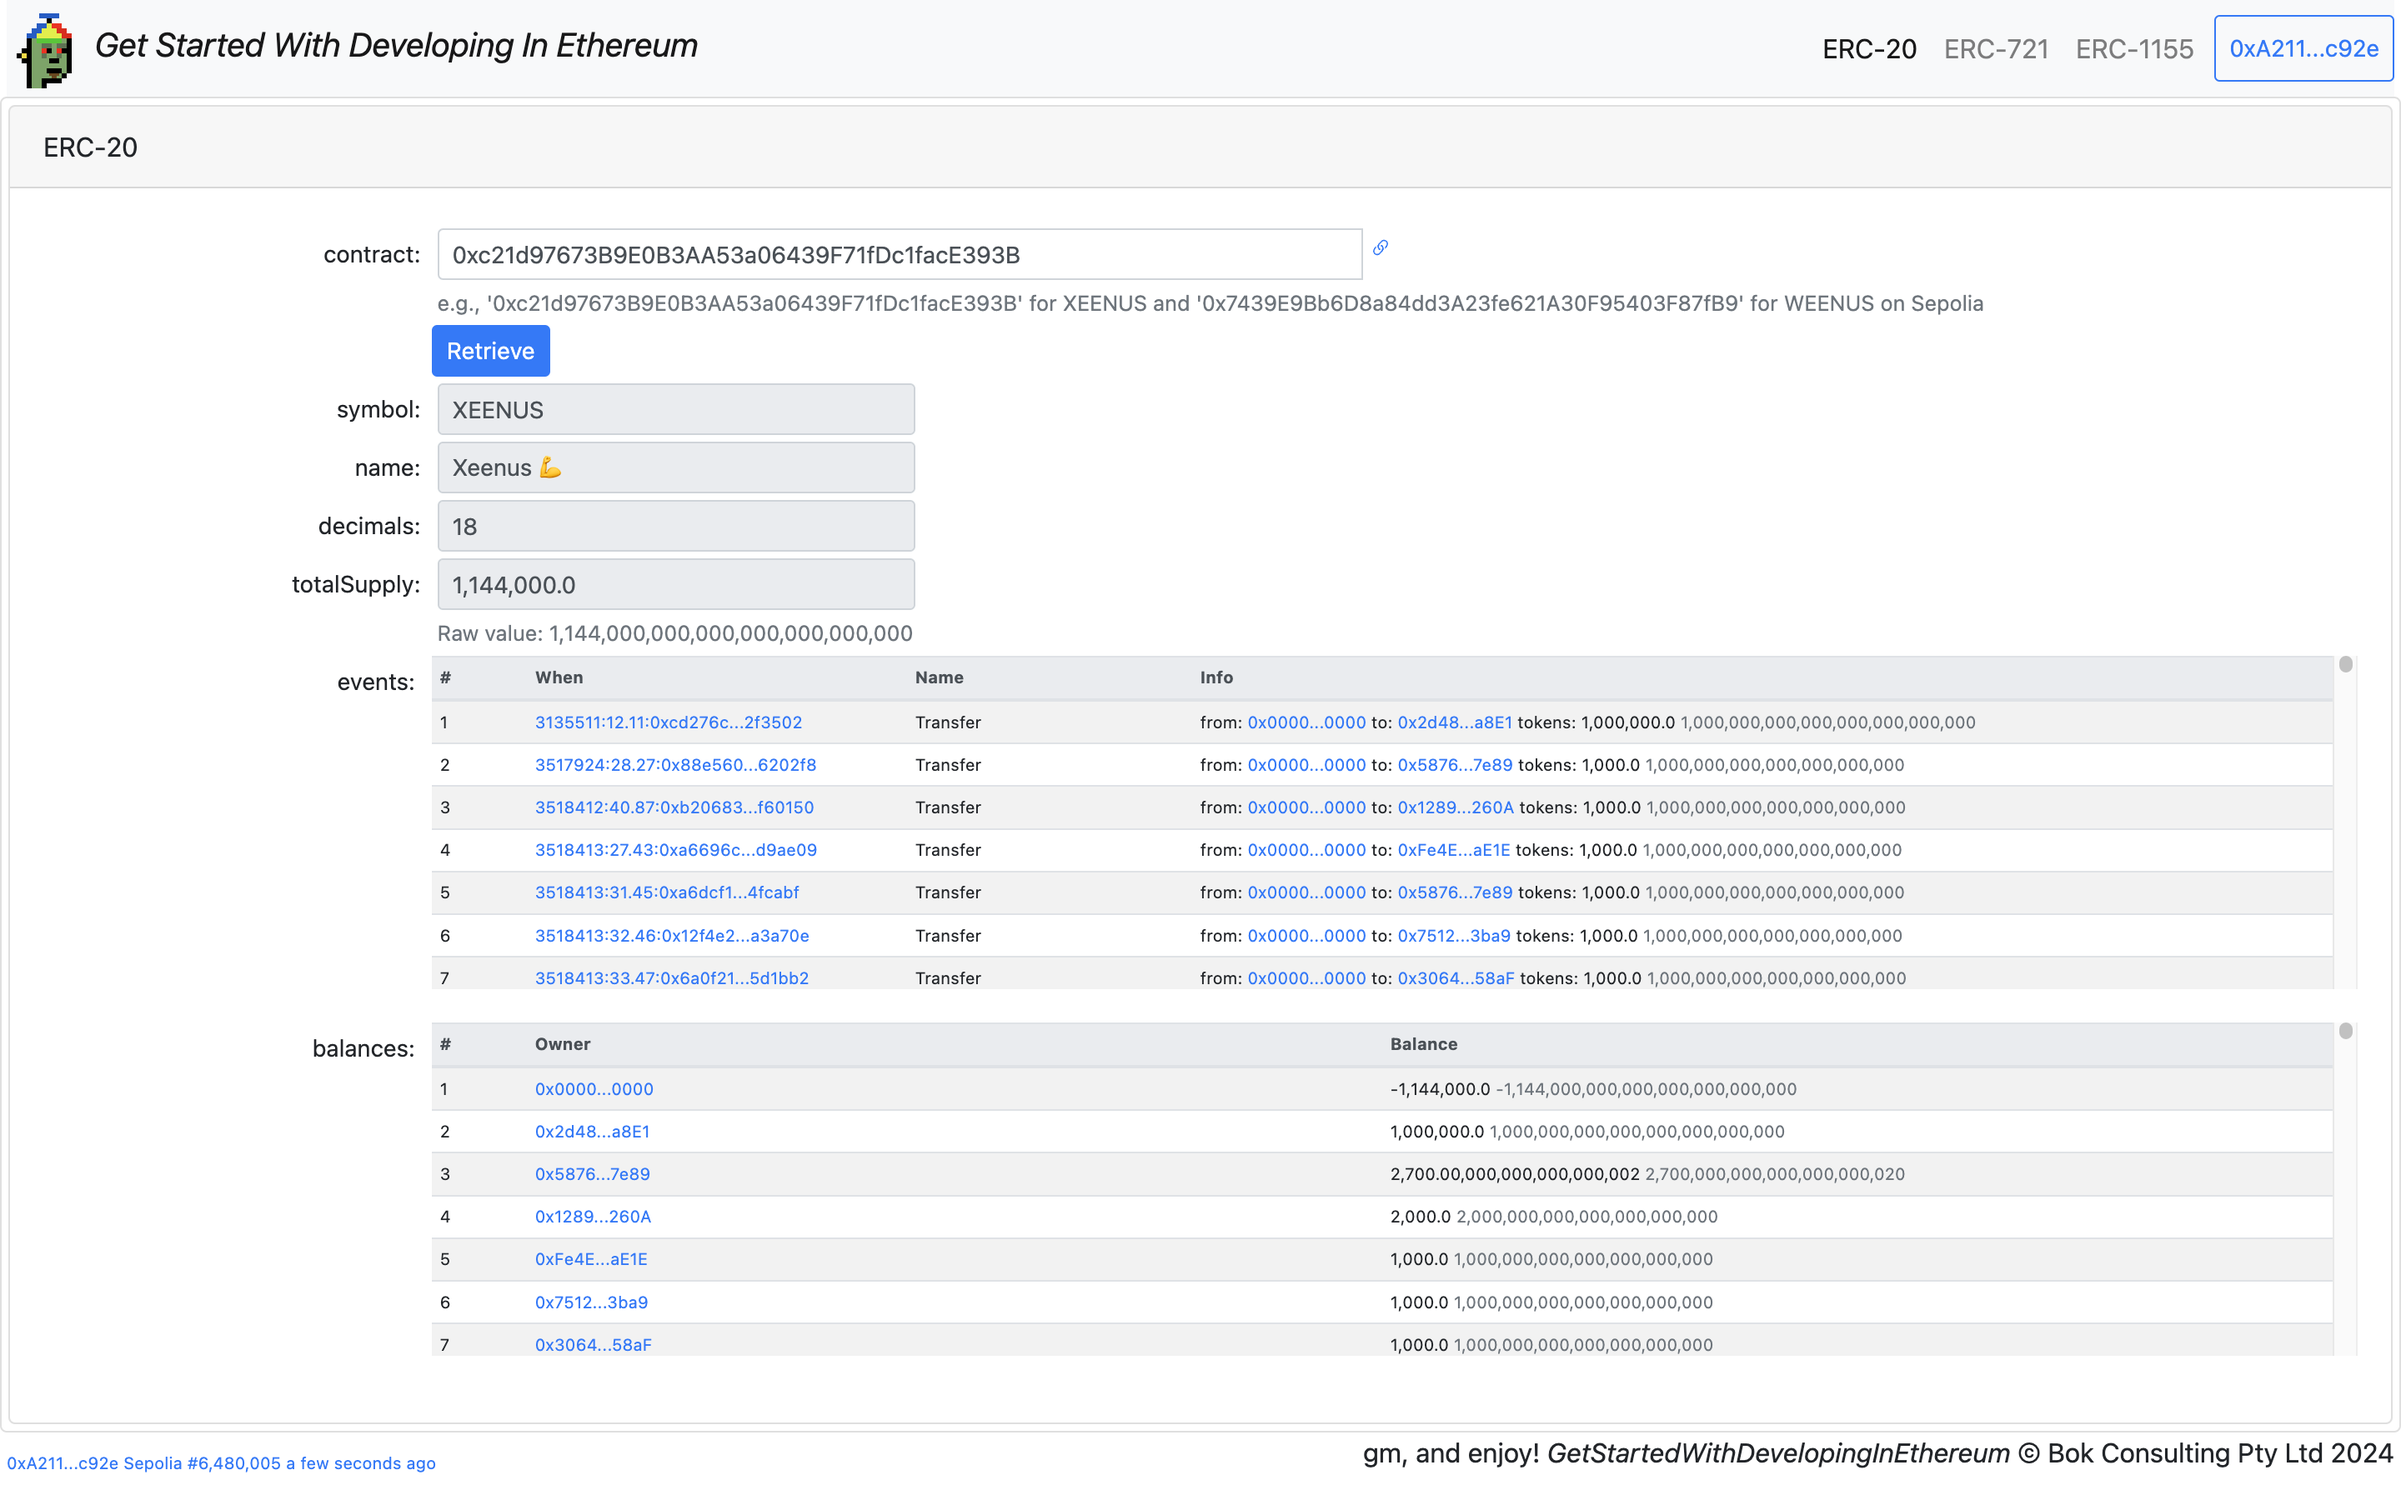
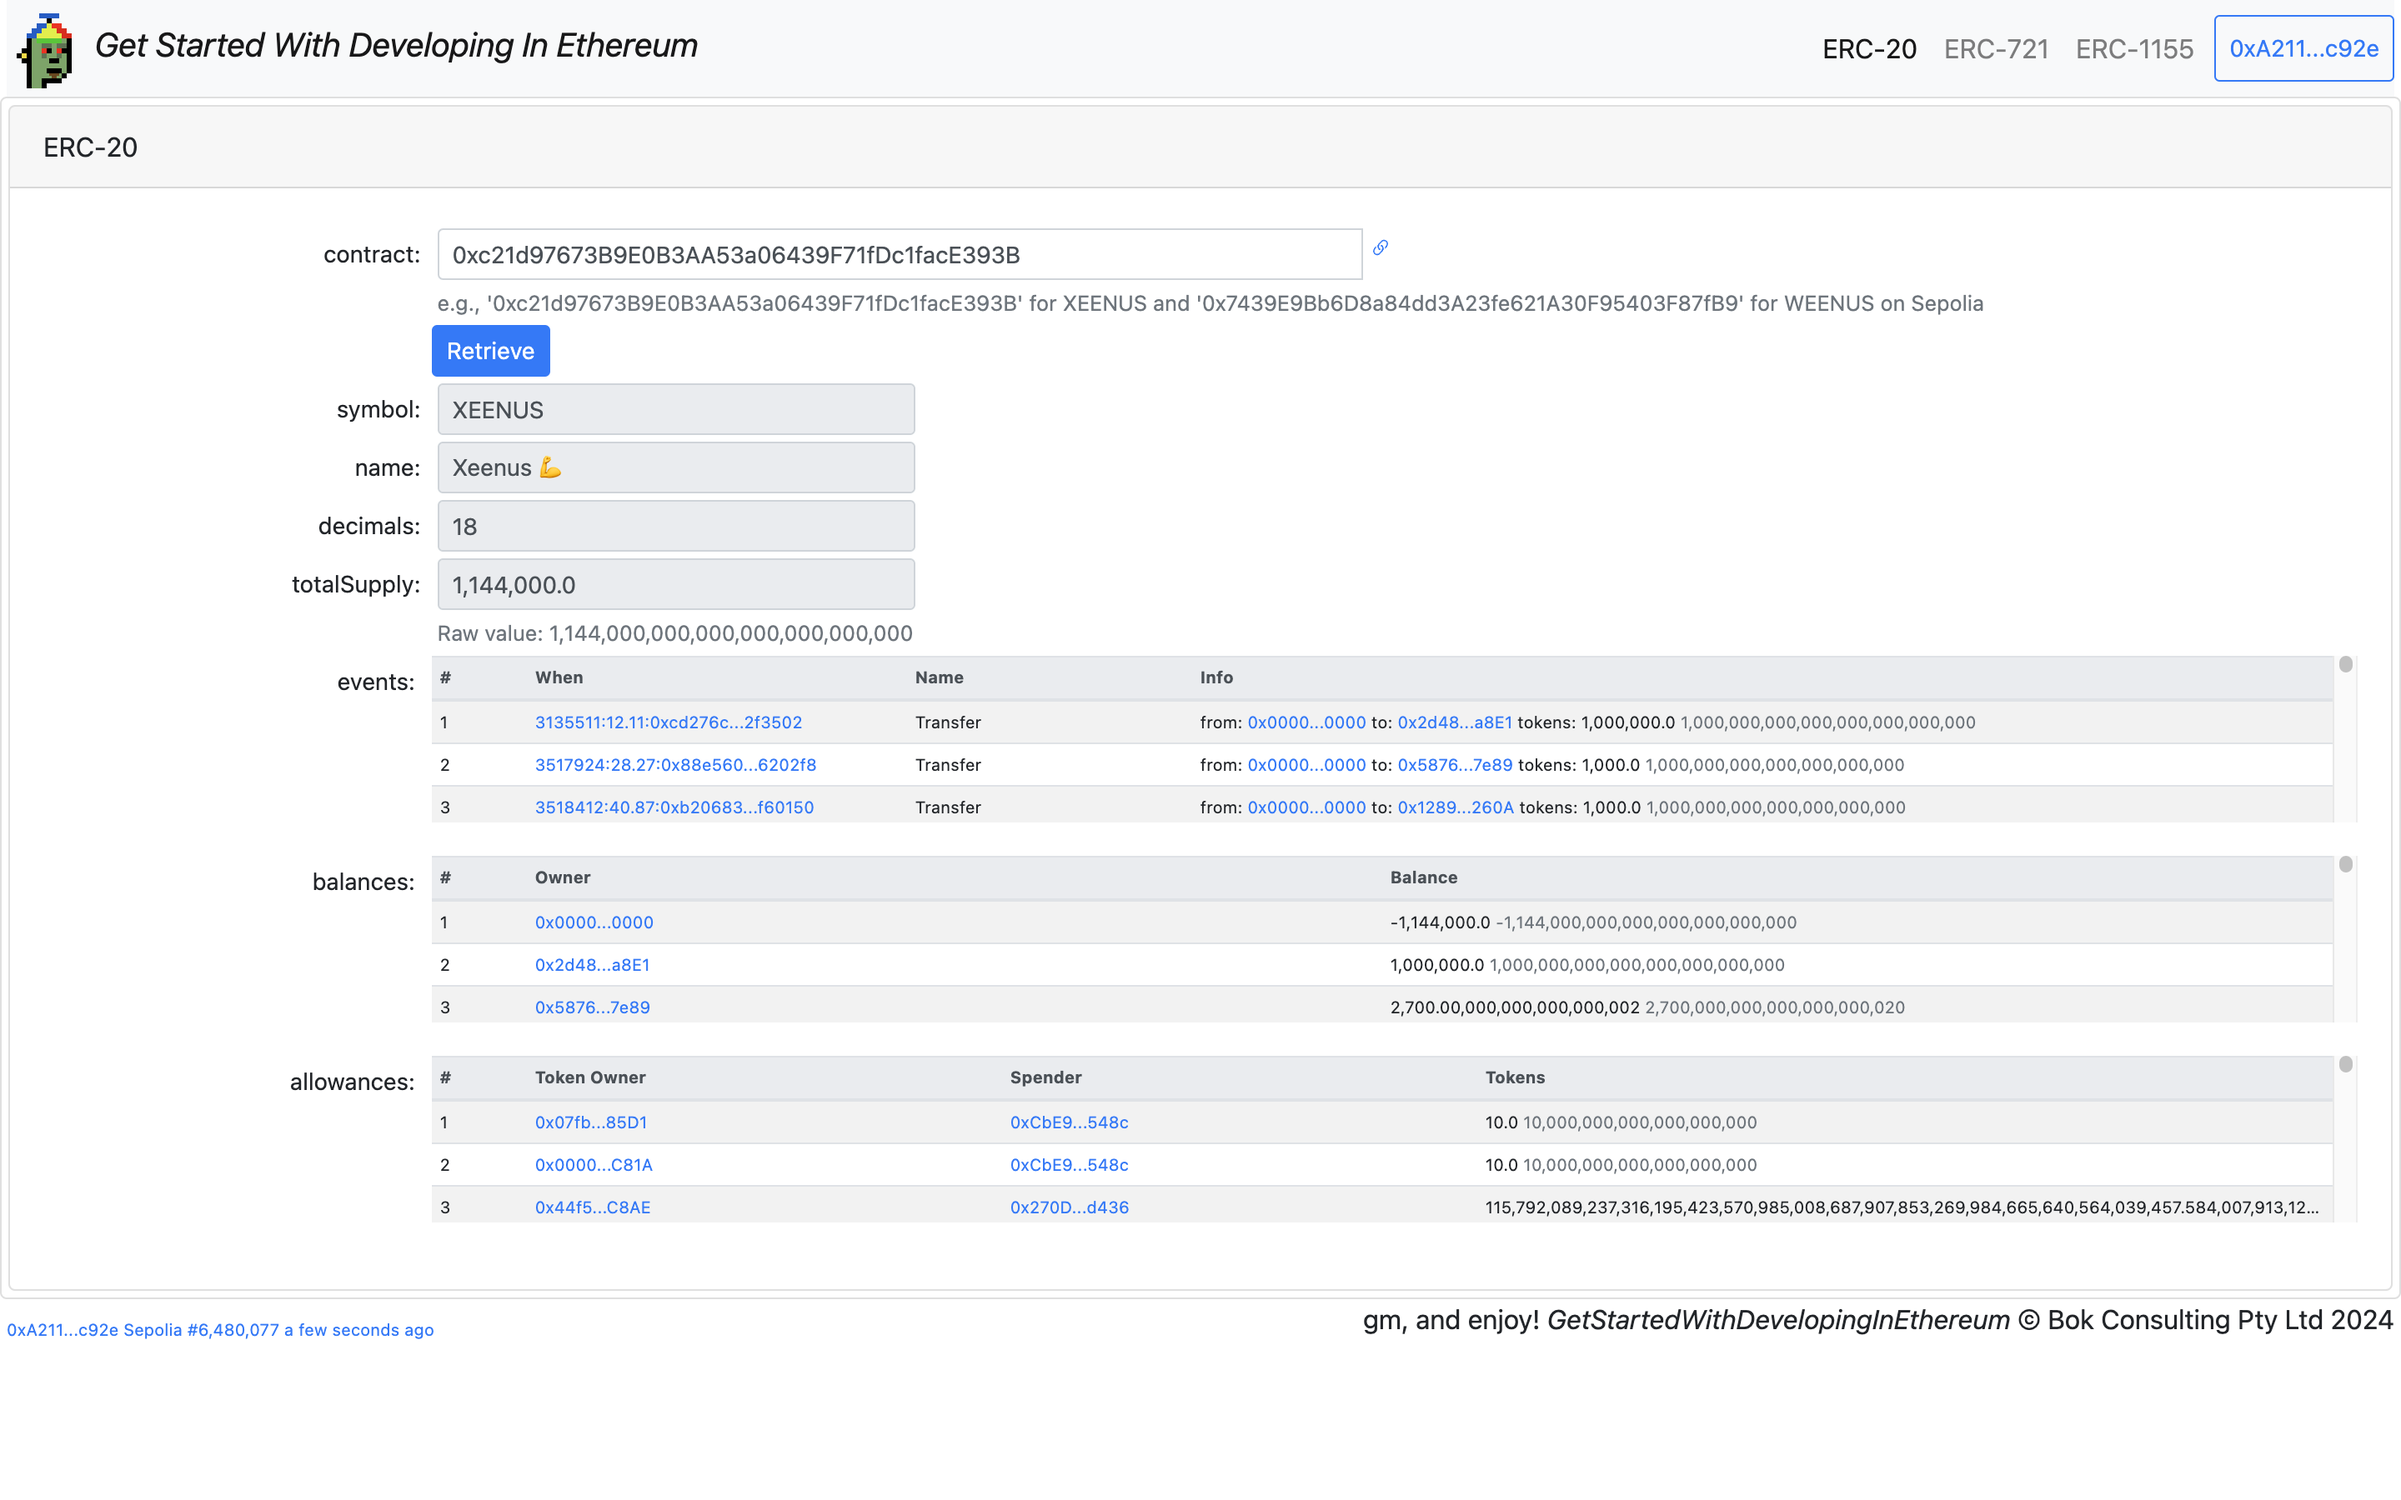
erc-20 wip

diff --git a/docs/index.html b/docs/index.html
@@ -87,7 +87,7 @@
 
               <b-form-group label="events:" label-size="sm" label-cols-sm="2" label-align-sm="right" class="mx-0 my-1 p-0">
                 <font size="-2">
-                  <b-table small fixed striped sticky-header="200px" :fields="erc20EventsFields" :items="erc20.events" head-variant="light">
+                  <b-table small fixed striped sticky-header="100px" :fields="erc20EventsFields" :items="erc20.events" head-variant="light">
                     <template #cell(number)="data">
                         {{ parseInt(data.index) + 1 }}
                     </template>
@@ -134,7 +134,7 @@
 
               <b-form-group label="balances:" label-size="sm" label-cols-sm="2" label-align-sm="right" class="mx-0 my-1 p-0">
                 <font size="-2">
-                  <b-table small fixed striped sticky-header="200px" :fields="erc20BalancesFields" :items="erc20.balances" head-variant="light">
+                  <b-table small fixed striped sticky-header="100px" :fields="erc20BalancesFields" :items="erc20.balances" head-variant="light">
                     <template #cell(number)="data">
                         {{ parseInt(data.index) + 1 }}
                     </template>
@@ -147,6 +147,32 @@
                       {{ formatDecimals(data.item.balance, data.item.decimals) }}
                       <span class="text-muted">
                         {{ formatNumber(data.item.balance) }}
+                      </span>
+                    </template>
+                  </b-table>
+                </font>
+              </b-form-group>
+
+              <b-form-group label="allowances:" label-size="sm" label-cols-sm="2" label-align-sm="right" class="mx-0 my-1 p-0">
+                <font size="-2">
+                  <b-table small fixed striped sticky-header="100px" :fields="erc20AllowancesFields" :items="erc20.allowances" head-variant="light">
+                    <template #cell(number)="data">
+                        {{ parseInt(data.index) + 1 }}
+                    </template>
+                    <template #cell(tokenOwner)="data">
+                      <b-link size="sm" :href="'https://sepolia.etherscan.io/token/' + settings.erc20.contract + '?a=' + data.item.tokenOwner" variant="link" v-b-popover.hover.ds500="data.item.tokenOwner" target="_blank">
+                        {{ data.item.tokenOwner.substring(0, 6) + '...' + data.item.tokenOwner.slice(-4) }}
+                      </b-link>
+                    </template>
+                    <template #cell(spender)="data">
+                      <b-link size="sm" :href="'https://sepolia.etherscan.io/token/' + settings.erc20.contract + '?a=' + data.item.spender" variant="link" v-b-popover.hover.ds500="data.item.spender" target="_blank">
+                        {{ data.item.spender.substring(0, 6) + '...' + data.item.spender.slice(-4) }}
+                      </b-link>
+                    </template>
+                    <template #cell(tokens)="data">
+                      {{ formatDecimals(data.item.tokens, data.item.decimals) }}
+                      <span class="text-muted">
+                        {{ formatNumber(data.item.tokens) }}
                       </span>
                     </template>
                   </b-table>
@@ -284,6 +310,12 @@
             { key: 'owner', label: 'Owner', sortable: false, thStyle: 'width: 45%;', thClass: 'text-left', tdClass: 'text-left' },
             { key: 'balance', label: 'Balance', sortable: false, thStyle: 'width: 50%;', tdClass: 'text-truncate' },
           ],
+          erc20AllowancesFields: [
+            { key: 'number', label: '#', sortable: false, thStyle: 'width: 5%;', tdClass: 'text-truncate' },
+            { key: 'tokenOwner', label: 'Token Owner', sortable: false, thStyle: 'width: 25%;', thClass: 'text-left', tdClass: 'text-left' },
+            { key: 'spender', label: 'Spender', sortable: false, thStyle: 'width: 25%;', thClass: 'text-left', tdClass: 'text-left' },
+            { key: 'tokens', label: 'Tokens', sortable: false, thStyle: 'width: 45%;', tdClass: 'text-truncate' },
+          ],
         },
 
         // --- COMPUTED ---
@@ -387,9 +419,10 @@
 
             // Compute Balances
             const balanceCollator = {};
+            const allowancesCollator = {};
             for (const event of events) {
-              console.log(moment().format("HH:mm:ss") + " retrieveERC20 - event: " + JSON.stringify(event));
               if (event.name == "Transfer") {
+                // console.log(moment().format("HH:mm:ss") + " retrieveERC20 - Transfer event: " + JSON.stringify(event));
                 if (!(event.from in balanceCollator)) {
                   balanceCollator[event.from] = "0";
                 }
@@ -398,16 +431,33 @@
                 }
                 balanceCollator[event.from] = ethers.BigNumber.from(balanceCollator[event.from]).sub(event.tokens).toString();
                 balanceCollator[event.to] = ethers.BigNumber.from(balanceCollator[event.to]).add(event.tokens).toString();
+              } else if (event.name == "Approval") {
+                console.log(moment().format("HH:mm:ss") + " retrieveERC20 - Approval event: " + JSON.stringify(event));
+                if (!(event.tokenOwner in allowancesCollator)) {
+                  allowancesCollator[event.tokenOwner] = {};
+                }
+                allowancesCollator[event.tokenOwner][event.spender] = event.tokens;
               }
             }
-            console.log(moment().format("HH:mm:ss") + " retrieveERC20 - balanceCollator: " + JSON.stringify(balanceCollator, null, 2));
+            // console.log(moment().format("HH:mm:ss") + " retrieveERC20 - balanceCollator: " + JSON.stringify(balanceCollator, null, 2));
+            console.log(moment().format("HH:mm:ss") + " retrieveERC20 - allowancesCollator: " + JSON.stringify(allowancesCollator, null, 2));
             const balances = [];
             for (const [owner, balance] of Object.entries(balanceCollator)) {
-              console.log(owner + " => " + balance);
               balances.push({ owner, balance });
-              // console.log(moment().format("HH:mm:ss") + " retrieveERC20 - owner: " + owner + " => balance: " + balance.toString());
             }
             Vue.set(this.erc20, 'balances', balances);
+            // console.log(moment().format("HH:mm:ss") + " retrieveERC20 - balances: " + JSON.stringify(balances, null, 2));
+
+            const allowances = [];
+            for (const [tokenOwner, spenders] of Object.entries(allowancesCollator)) {
+              // console.log(tokenOwner + " => " + JSON.stringify(spenders));
+              for (const [spender, tokens] of Object.entries(spenders)) {
+                // console.log(tokenOwner + "/" + spender + " => " + tokens);
+                allowances.push({ tokenOwner, spender, tokens });
+              }
+            }
+            Vue.set(this.erc20, 'allowances', allowances);
+            // console.log(moment().format("HH:mm:ss") + " retrieveERC20 - allowances: " + JSON.stringify(allowances, null, 2));
 
             console.log(moment().format("HH:mm:ss") + " retrieveERC20 END - erc20: " + JSON.stringify(this.erc20, null, 2));
           },
